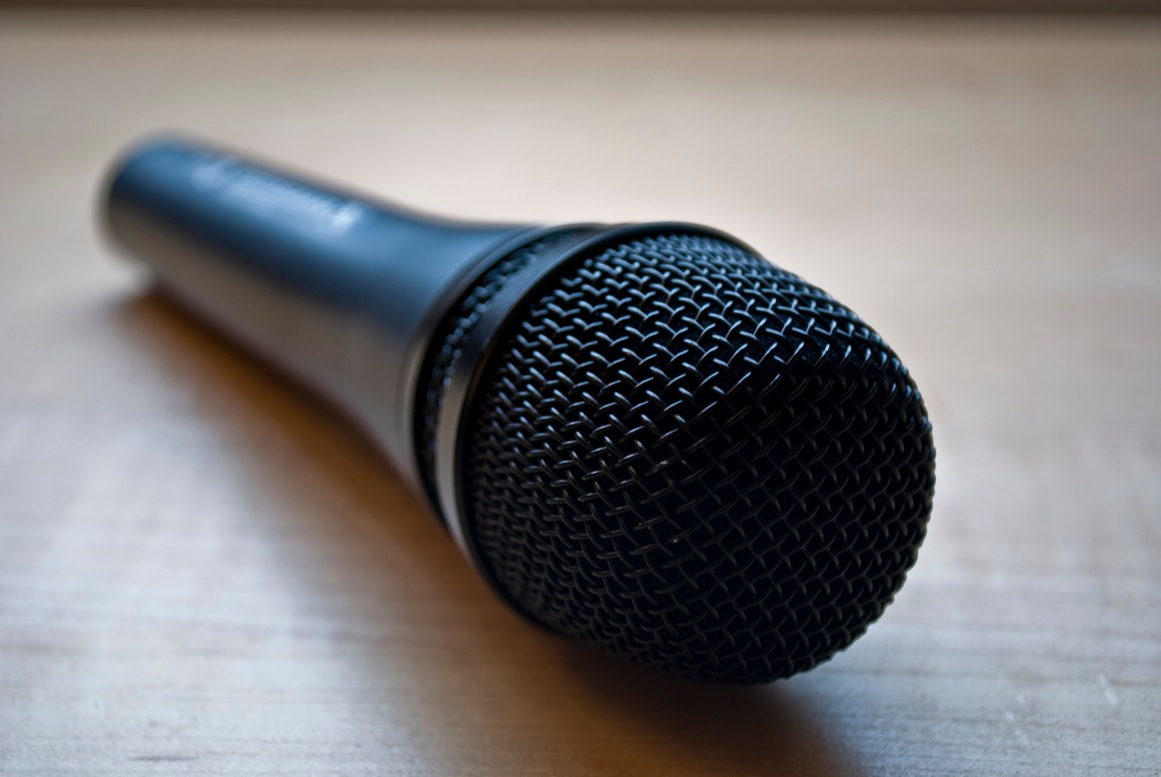
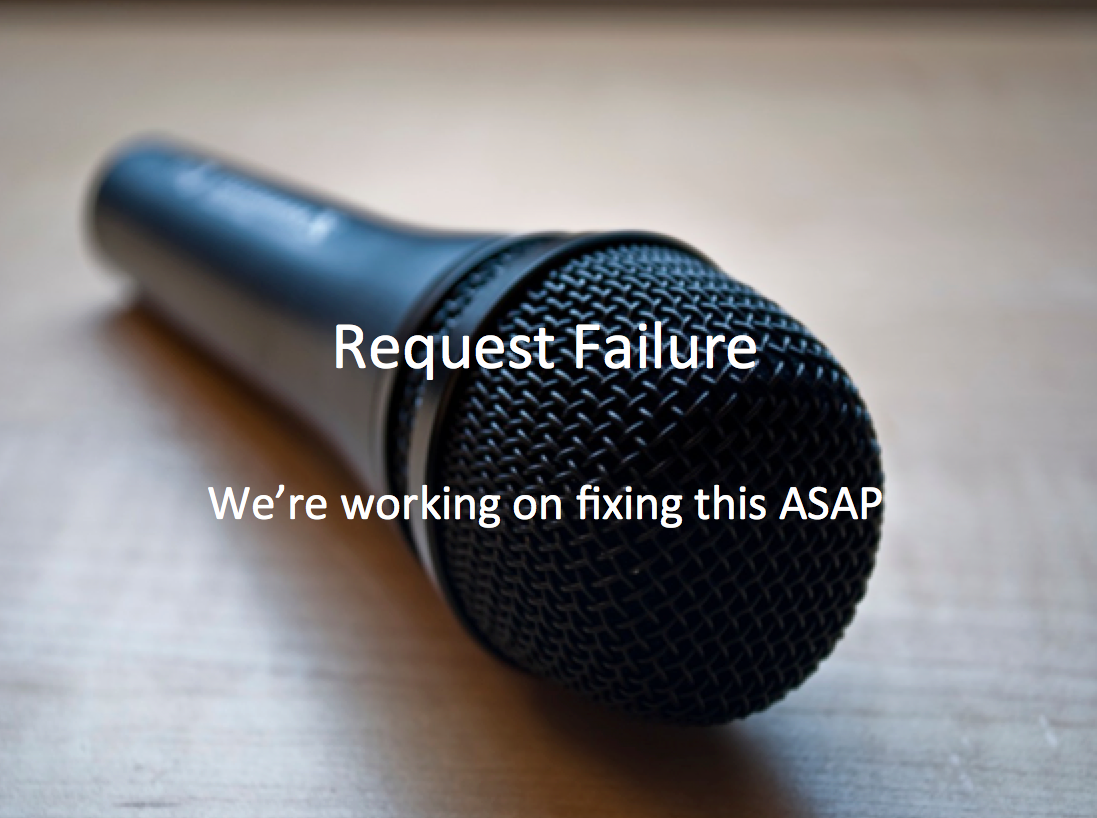
jamBaseTimeout
had to fix the jambase timeout but got it, all set for submission
number 3 after a quick beautify

diff --git a/index.html b/index.html
@@ -11,15 +11,14 @@
 </head>
 
 <body>
-    <div class="list" id="failure"></div>
     <div class="list" id="listed">
-        <ul class="listUL">
+        <div class="search-buttons">
             <input class="searchBar" data-bind="value: query, valueUpdate: 'keyup', event: { keypress: toggle.filter }" autocomplete="off" placeholder="Hit Enter Twice to Clear" autofocus />
-        </ul>
-        <button class="hide" data-bind="click: toggle.hideList">Click to Hide</button>
+            <button class="hide" data-bind="click: toggle.hideList">Click to Hide</button>
+        </div>
         <div class="mark-list" data-bind="foreach: model.places">
             <ul data-bind="if: visibility">
-                <li data-bind="text: title, click: markView.render"></li>
+                <li class="mark-li" data-bind="text: title, click: markView.render"></li>
             </ul>
         </div>
         <div class="display"></div>
@@ -133,7 +132,6 @@
     </div>
     <div class="jamBase-header">
         <div data-bind="visible: jamBaseView.fail">
-            <h2 data-bind="text: jamBaseView.text"></h2>
             <img alt="Microphone" src="img/microphone.jpg" class="mic">
         </div>
         <div>

diff --git a/css/style.css b/css/style.css
@@ -45,15 +45,20 @@ hr {
 #mark {
     margin-left: 62%;
     margin-top: 41%;
+    padding: 5px;
     height: 150px;
     width: 250px;
     display: none;
 }
 
-#failure {
-    z-index: 6;
-    margin: 20px;
-    border: none;
+.search-buttons {
+    padding-left: 55px;
+
+}
+
+.hide {
+    width: 75px;
+    margin-left: 45px;
 }
 
 .static {
@@ -70,13 +75,14 @@ hr {
     display: none;
 }
 
-.mark-list {
-    padding: 15px;
-}
-
 .mark-img {
     height: 75px;
     width: 75px;
+}
+
+.mark-li {
+    width: 200px;
+    padding: 0px 15px 0px 15px;
 }
 
 .mark-name {
@@ -215,8 +221,13 @@ hr {
 }
 
 .mic {
-    height: 5em;
-    width: 9em;
+    height: 13em;
+    width: 12em;
+}
+
+.fail-text {
+    color: white;
+
 }
 
 .concerts {

diff --git a/js/script.js b/js/script.js
@@ -271,10 +271,7 @@ var jamBaseView = {
             '&radius=5&page=0&api_key=u34rze74n8752gcq7nt3bzn3';
 
         //same functionality as the socrata timeout detailed above
-        this.text = 'This was supposed to show a bunch of information ' +
-            'about concerts in the area, and the request failed. Im so, so sorry. ' +
-            'So instead, here is a picture of a microphone, which should make up for' +
-            ' it. Right?';
+
 
         //establishes the timeout if the ajax request fails/takes too long
         this.jamBaseTimeout = setTimeout(function() {
@@ -286,6 +283,7 @@ var jamBaseView = {
     fail: ko.observable(false),
 
     render: function() {
+
         var self = this;
 
         $.ajax({
